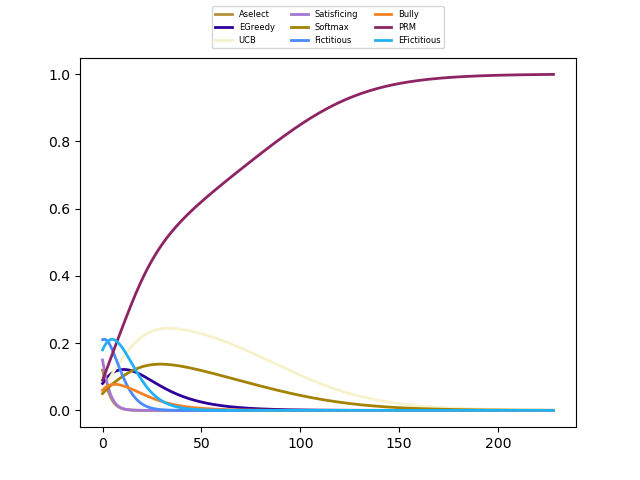
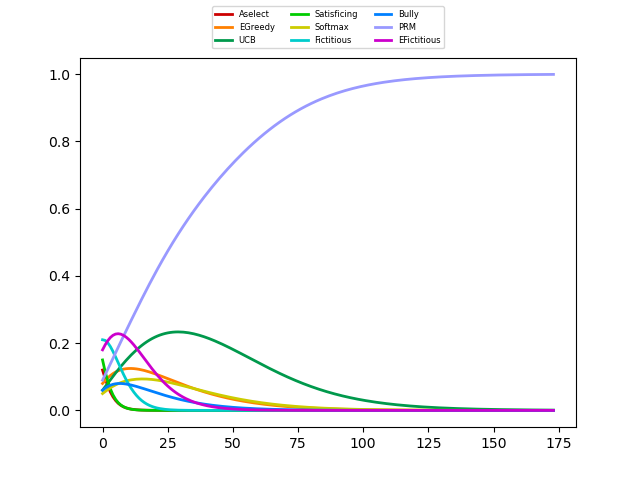
Minor changes to plots, saved Nash from last execution

diff --git a/ReplicatorDynamic.py b/ReplicatorDynamic.py
@@ -30,13 +30,13 @@ class ReplicatorDynamic:
 
     def to_graph(self, name: str): # TODO: fix overlapping
         """Visualize the evolution of proportions."""
-        i = 0
+        colors = ["#cc0000", "#ff8000", "#00994c", "#00cc00", "#cccc00", "#00cccc", "#0080ff",
+                  "#9999ff", "#cc00cc"]
         path = os.path.dirname(__file__)
         plt.figure()
-        for strategy in self.history:
-            plt.plot(self.rounds, strategy, linewidth=2, color=np.random.rand(3,),
+        for i, strategy in enumerate(self.history):
+            plt.plot(self.rounds, strategy, linewidth=2, color=colors[i],
                      label=self.grand_table.row_strategies[i].name)
-            i += 1
         plt.legend(loc='upper center', ncol=3, bbox_to_anchor=(0.5, 1.15), prop={'size': 6})
         plt.savefig(path + "\\img\\" + name + ".png")
         #plt.show()
